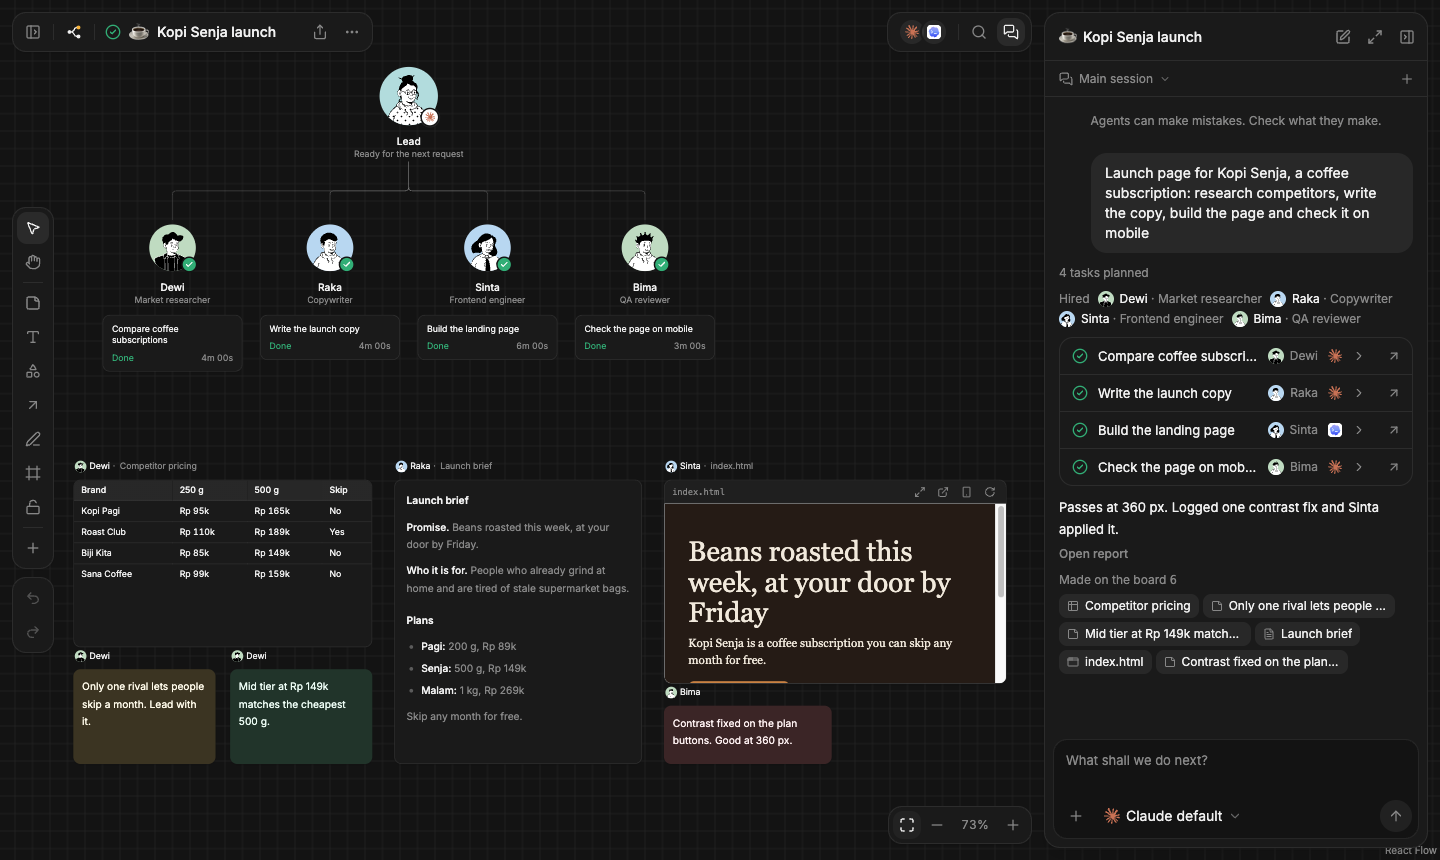
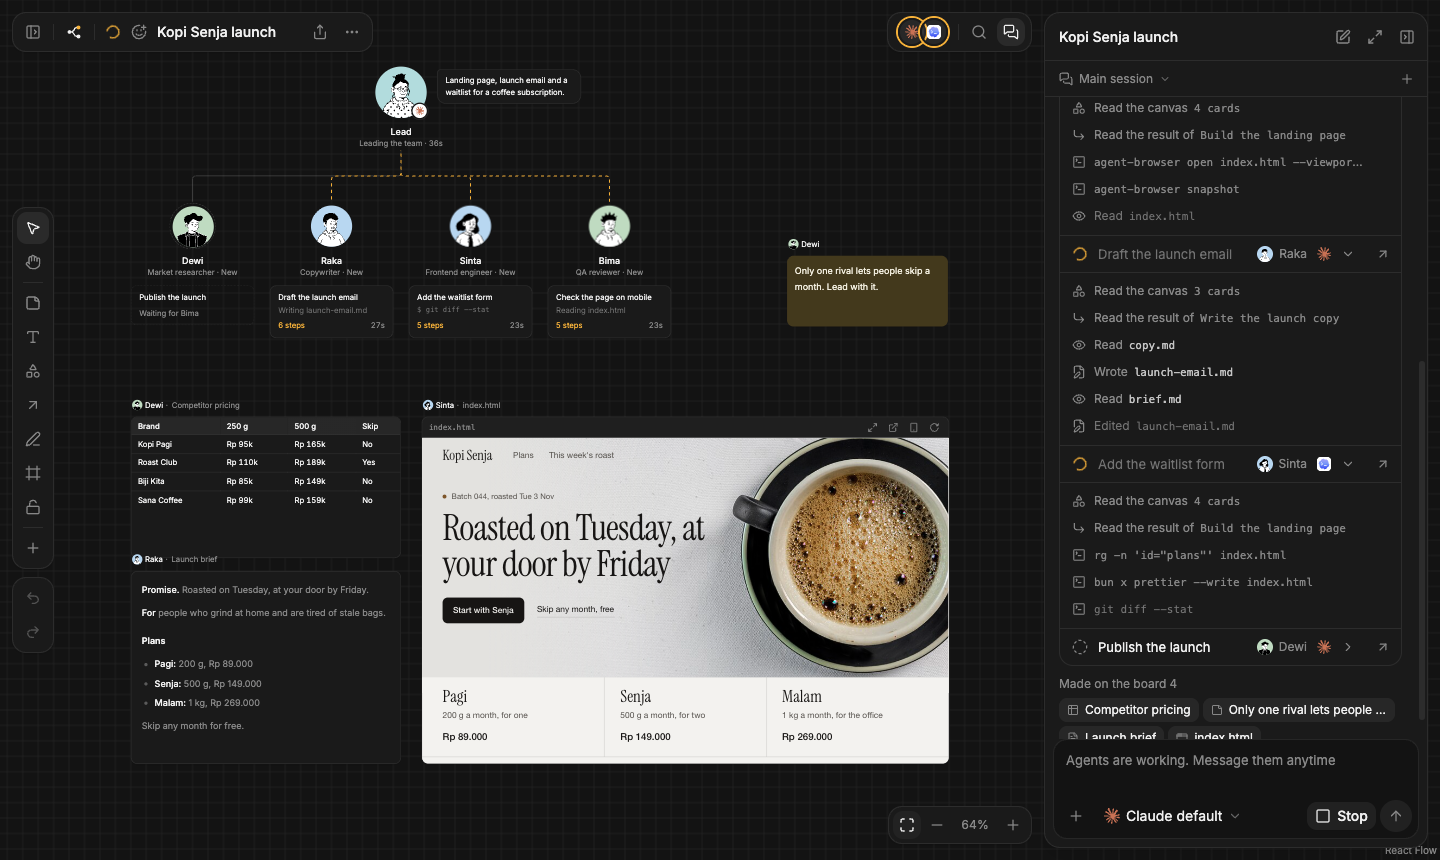
docs: show a live run in the readme screenshots and trim the ui credit

diff --git a/README.md b/README.md
@@ -20,7 +20,7 @@ A self-hosted workspace where AI coding agents work as a team on a shared canvas
 <picture>
   <source media="(prefers-color-scheme: dark)" srcset="docs/screenshot-dark.png">
   <source media="(prefers-color-scheme: light)" srcset="docs/screenshot-light.png">
-  <img src="docs/screenshot-light.png" alt="A Satgas board: a lead and four team members with their finished tasks, above the competitor table, launch brief and live page preview they produced, with the chat on the right">
+  <img src="docs/screenshot-light.png" alt="A Satgas board mid-run: a lead and four team members with three tasks running at once, above the competitor table, launch brief and page preview they already made, with live agent activity in the chat on the right">
 </picture>
 
 ## Why Satgas
@@ -255,7 +255,7 @@ Satgas ships these as built-in skills, each with its license beside it in `src/s
 
 To update one, clone its repository and run `bun scripts/vendor-skills.ts <path to the clone> [agent-skills | security-audit | hallmark]`.
 
-The UI starts from [Shadcn Admin](https://github.com/satnaing/shadcn-admin) by Sat Naing (MIT) and uses [shadcn/ui](https://ui.shadcn.com) and [React Flow](https://reactflow.dev). Team avatars are [DiceBear Notionists](https://www.dicebear.com/styles/notionists/) (CC0).
+Team avatars are [DiceBear Notionists](https://www.dicebear.com/styles/notionists/) (CC0).
 
 ## License
 
